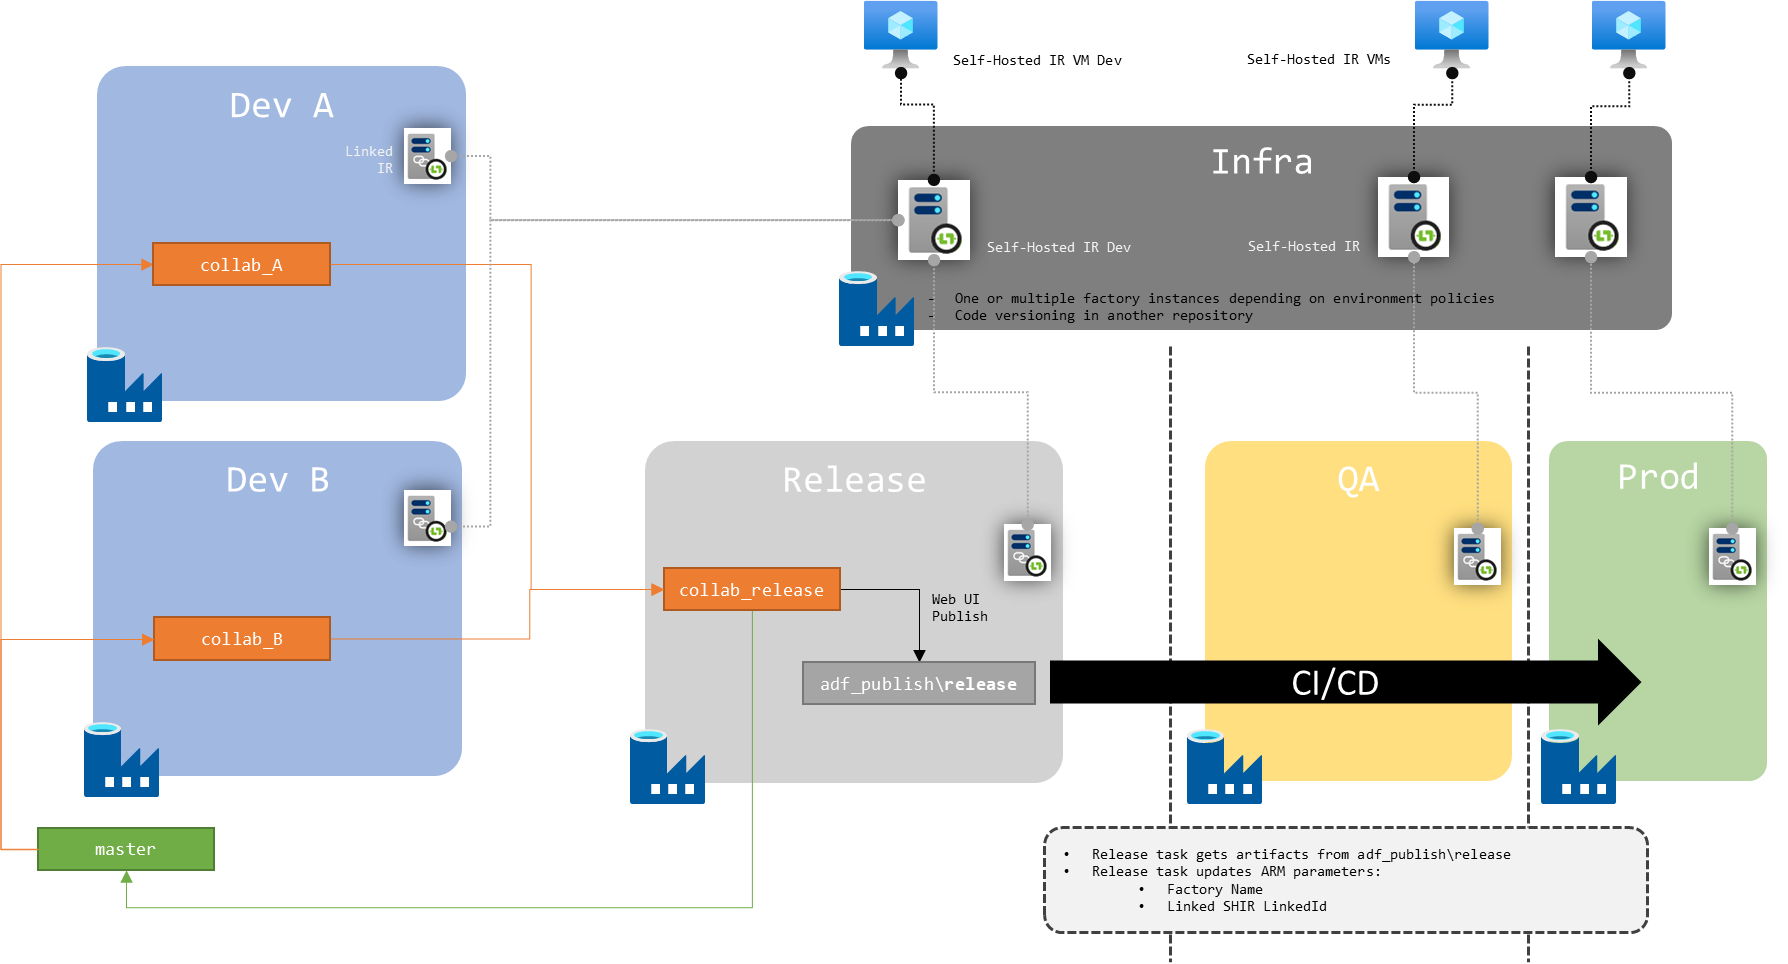
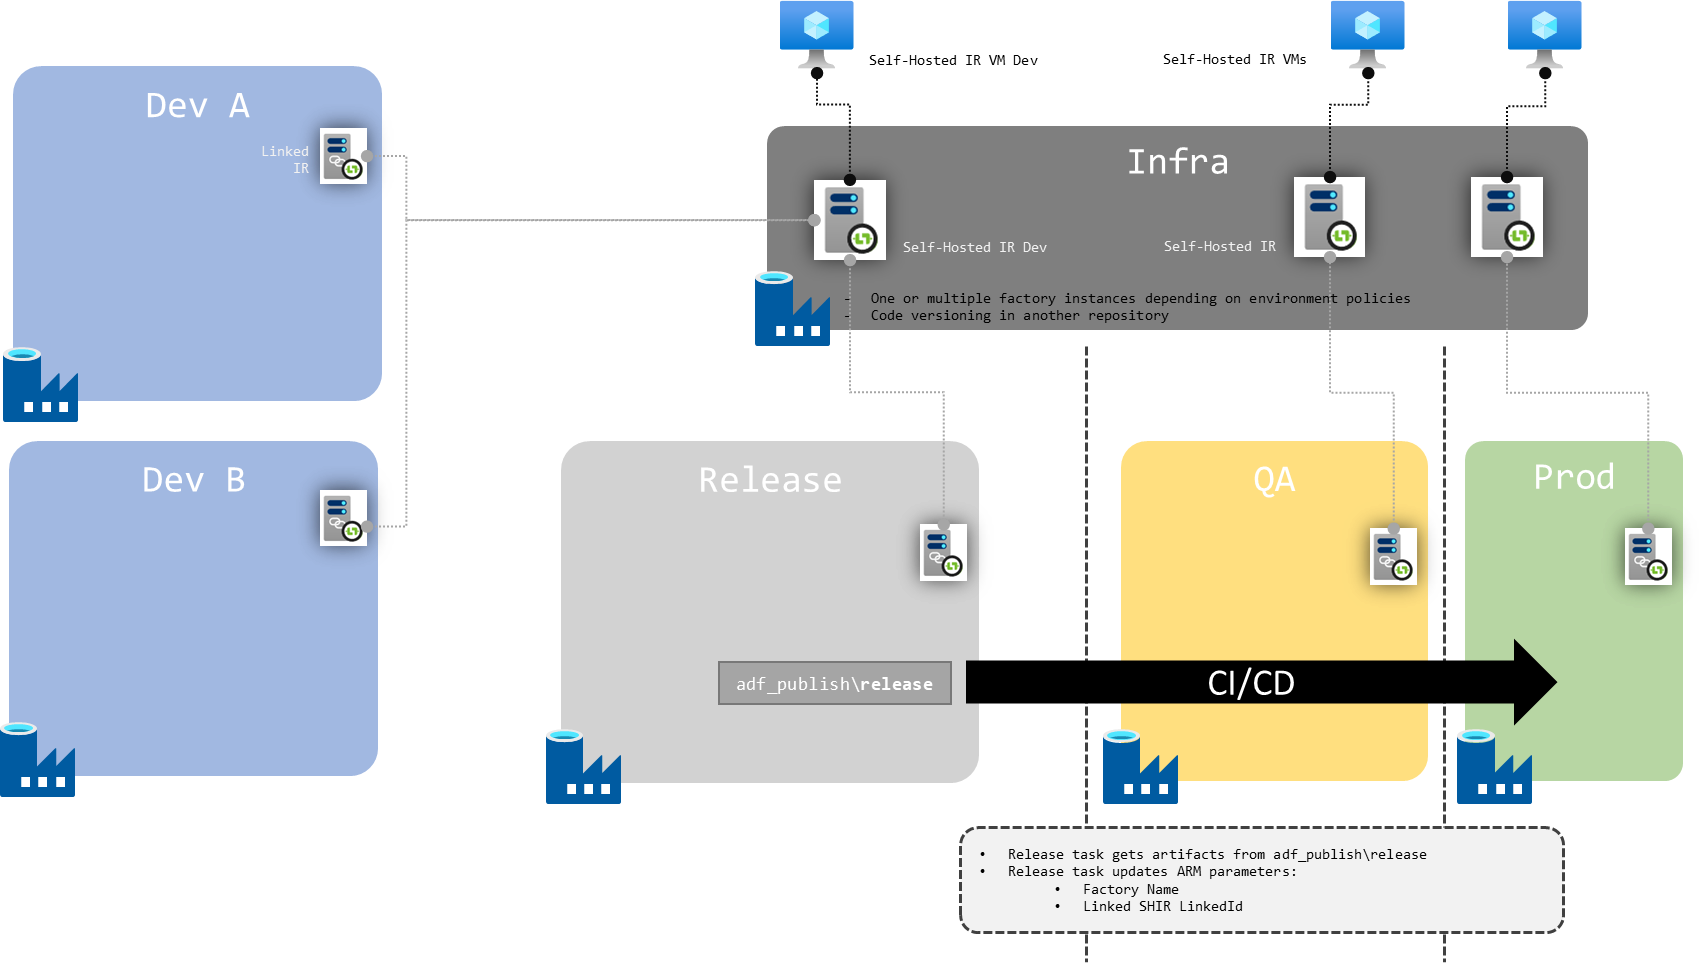
Add Register PS1 link

diff --git a/_posts/2020-05-28-adf-devops.md b/_posts/2020-05-28-adf-devops.md
@@ -120,7 +120,9 @@ Here are the design considerations we are working with:
 
 - A SHIR is an agent first installed on a machine (VM, on-prem server...), then registered to a single factory instance
 - In the repository, a SHIR registration is just another JSON artifact, located in the `\integrationRuntime\` sub-folder. It's quite minimalist (`{"name": "shir-name","properties": {"type": "SelfHosted"}}`), which means the actual wiring happens under the cover, hidden from us
-- Once created in a factory instance, a SHIR can be [shared with](https://docs.microsoft.com/en-us/azure/data-factory/create-self-hosted-integration-runtime#create-a-shared-self-hosted-integration-runtime-in-azure-data-factory) / *linked from* other factory instances
+- Once created in a factory instance, a SHIR can be [shared with](https://docs.microsoft.com/en-us/azure/data-factory/create-self-hosted-integration-runtime#create-a-shared-self-hosted-integration-runtime-in-azure-data-factory) / [linked from](https://azure.microsoft.com/en-us/blog/sharing-a-self-hosted-integration-runtime-infrastructure-with-multiple-data-factories/) other factory instances
+
+Before going further, let's remember that there is currently no graphical UI to change the registration of a SHIR agent running on a machine. But there are [scripts located](https://github.com/MicrosoftDocs/azure-docs/issues/7956) in the install folder (something like `C:\Program Files\Microsoft Integration Runtime\X.Y\PowerShellScript\RegisterIntegrationRuntime.ps1`, use `-` plus tab/autocompletion to discover parameters).
 
 ### SHIR for single factory setup
 
@@ -136,7 +138,7 @@ Each factory will have to go through the process of registering its own SHIR, si
 
 Now if we want to re-use SHIR across environments, we need to switch to **shared mode across the board**. It's easier to do so than to mix shared and dedicated, since the JSON definition structure is different, and would require some scripting to be altered in the release pipeline.
 
-We can deploy the shared SHIR in one or multiple infrastructure factory instances (used only to host those, separated from project code). The release pipeline will update the SHIR LinkedId property to point to the right SHIR when moving through environments.
+We can deploy the shared SHIR in one or multiple **infrastructure** factory instances (used only to host those, separated from project code). The release pipeline will update the SHIR `LinkedId` property to point to the right SHIR when moving through environments.
 
 Here also, each factory will have to go through the process of linking the SHIR, since the underlying wiring still needs to happen.
 
@@ -150,9 +152,9 @@ I expect most deployments to use different SHIR across environments here, if onl
 
 We will have similar options when addressing **multiple development factory instances**: provision a SHIR for each factory in the development scope and each environment, or share them across the board from an infrastructure factory(ies).
 
-About distinct : interest in regards to AKV limitation? 
+## AHAHA
 
-Similar as for the single dev factory setup, we can deploy the shared SHIR in one or multiple infrastructure factory instances. The release pipeline will here also update the SHIR LinkedId property to point to the right SHIR when moving through environments.
+Similar as for the single dev factory setup, we can deploy the shared SHIR in one or multiple **infrastructure** factory instances. The release pipeline will here also update the SHIR `LinkedId` property to point to the right SHIR when moving through environments.
 
 ![Schema of shared SHIR across environments for multiple dev factory instances](https://raw.githubusercontent.com/Fleid/fleid.github.io/master/_posts/202005_adf_devops/shir_multiple_shared.png)
 
